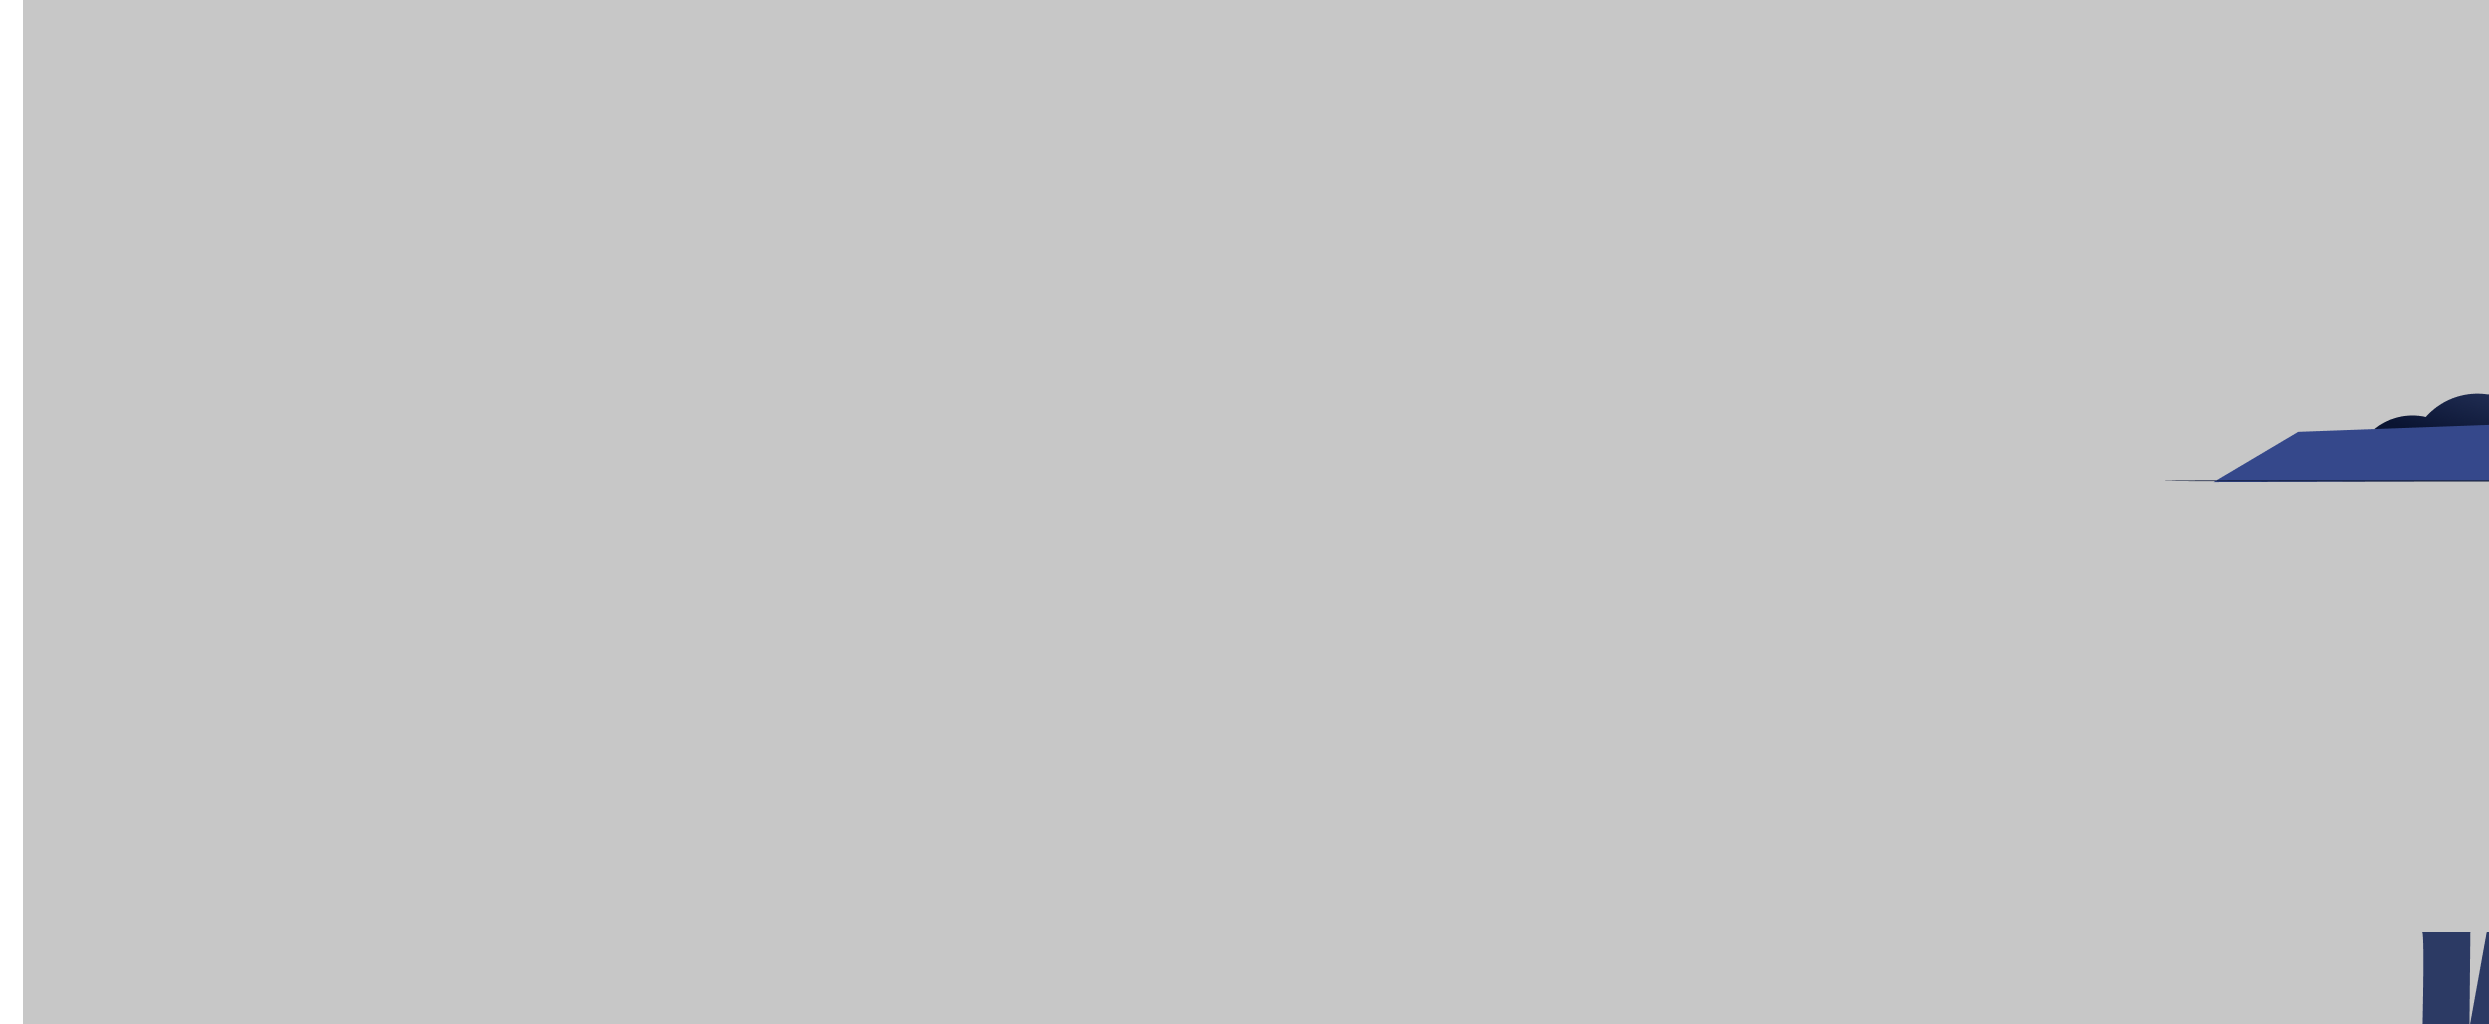
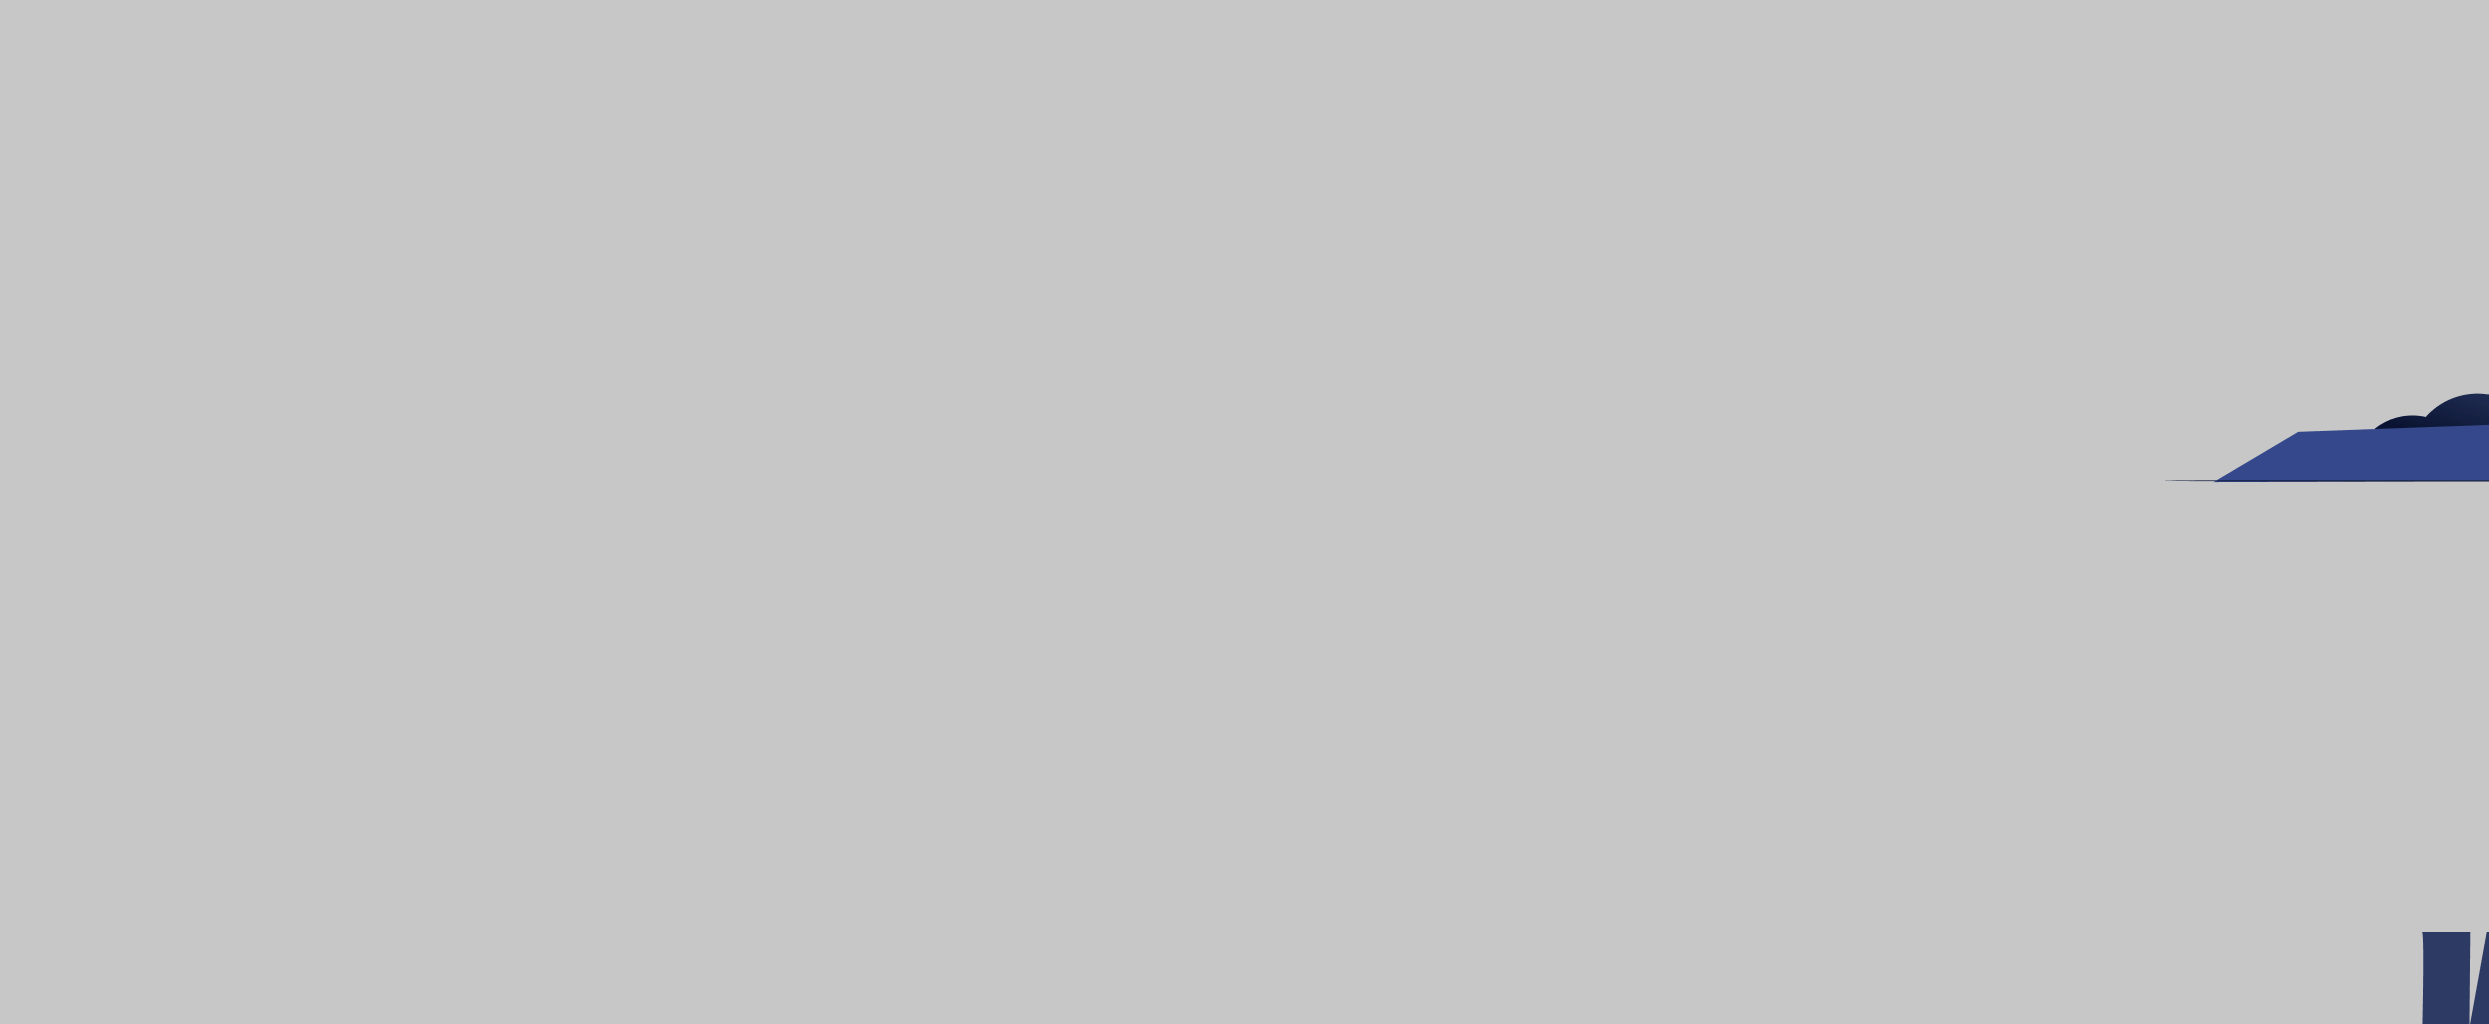
chapter12 back img

Changed region(s): [[0.0, 0.0, 0.0309, 1.0]]

diff --git a/sass/framework/components/chapter/b--chapter12-a.scss b/sass/framework/components/chapter/b--chapter12-a.scss
@@ -45,7 +45,7 @@
       bottom: auto;
       height: 100vh;
       &--left {
-        left: -1.5%;
+        left: -1.6%;
       }
     }
   }
